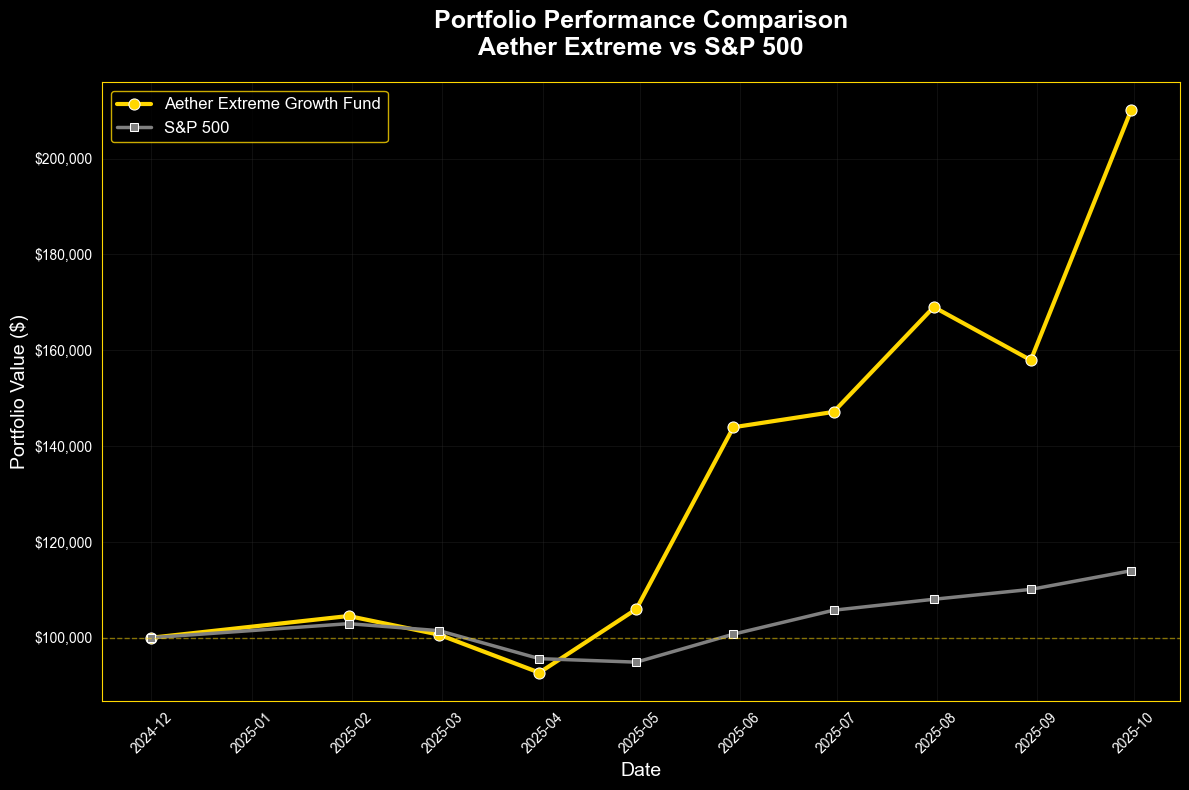
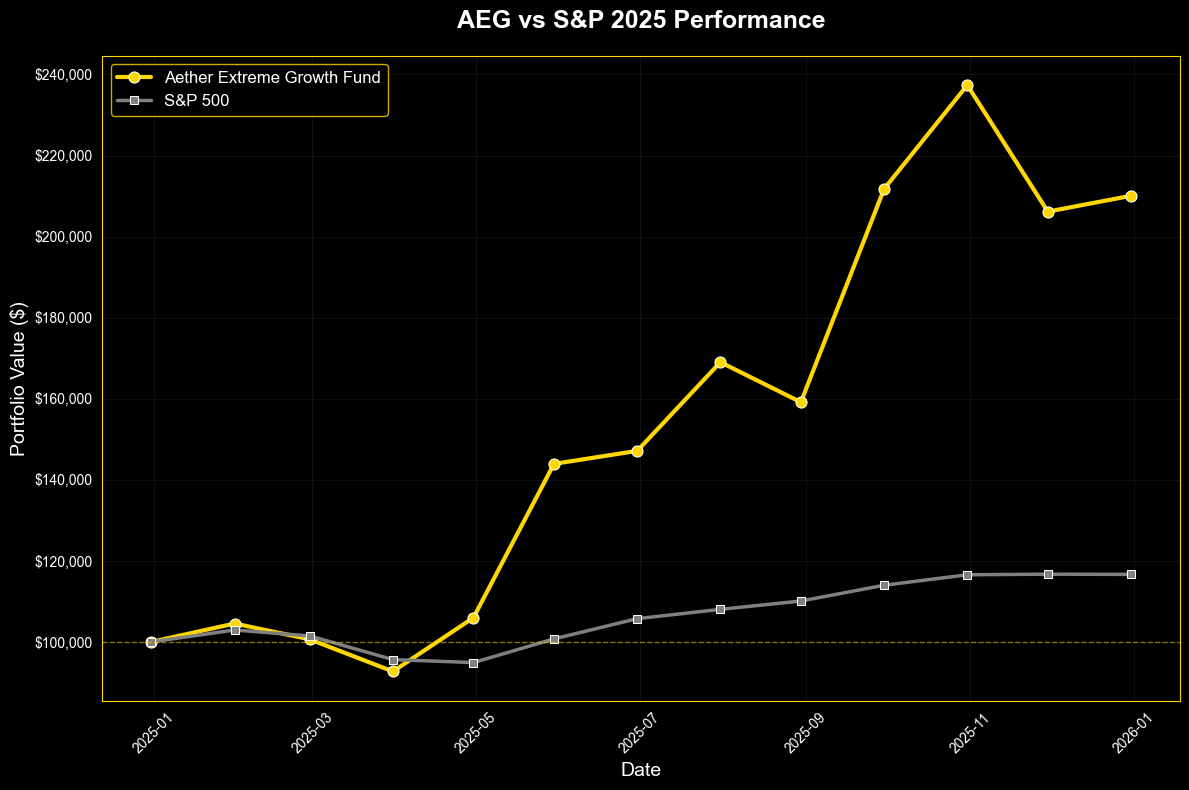
Add files via upload

diff --git a/style.css b/style.css
@@ -1,4 +1,3 @@
-
 body {
   margin: 0;
   font-family: 'Segoe UI', Tahoma, Geneva, Verdana, sans-serif;
@@ -117,7 +116,110 @@ footer {
 
 .scatter-img {
   width: 100%;
+  max-width: 450px;
+  height: auto;
+  border: 2px solid #ffd700;
+  border-radius: 8px;
+}
+.text-box {
+  background: rgba(0, 0, 0, 0.6); /* semi-transparent black */
+  border: 1px solid #bfa64b;      /* matte gold border */
+  border-radius: 8px;
+  padding: 1.5rem;
+  margin: 1rem auto;
   max-width: 700px;
+  box-shadow: 0 0 10px rgba(0, 0, 0, 0.5);
+}
+
+
+.navbar {
+  width: 100%;
+  background: rgba(0, 0, 0, 0.7);
+  border-bottom: 1px solid #bfa64b;
+  padding: 1rem 0;
+  text-align: center;
+  position: fixed;
+  top: 0;
+  left: 0;
+}
+
+.navbar a {
+  color: #ffd700;
+  text-decoration: none;
+  margin: 0 1.5rem;
+  font-weight: bold;
+  font-size: 1.1rem;
+}
+
+.navbar a:hover {
+  color: #fff;
+}
+
+body {
+  padding-top: 80px; /* to make room for navbar */
+}
+
+.fund-description {
+  margin-top: 1.5rem;
+  font-size: 1rem;
+  line-height: 1.6;
+  color: #bfa64b; /* matte gold tone */
+  max-width: 700px;
+  margin-left: auto;
+  margin-right: auto;
+}
+
+
+.coming-soon {
+  margin-top: 2rem;
+  text-align: center;
+}
+
+.coming-soon h2 {
+  font-size: 1.5rem;
+  color: #bfa64b; /* matte gold */
+  margin-bottom: 1rem;
+  text-transform: uppercase;
+  letter-spacing: 1px;
+}
+
+.coming-soon ul {
+  list-style: none;
+  padding: 0;
+}
+
+.coming-soon li {
+  font-size: 1.1rem;
+  color: #ccc;
+  margin: 0.5rem 0;
+}
+
+.morosaetherean-description {
+  margin-top: 1rem;
+  margin-bottom: 2rem;
+  font-size: 1.05rem;
+  line-height: 1.5;
+  color: #bfa64b; /* matte gold */
+  max-width: 700px;
+  margin-left: auto;
+  margin-right: auto;
+  font-style: italic;
+  white-space: pre-line; /* respects line breaks in the text */
+}
+
+
+.comparison-images {
+  display: flex;
+  justify-content: center;
+  flex-wrap: wrap;
+  gap: 1.5rem;
+  margin-top: 2rem;
+  margin-bottom: 2rem;
+}
+
+.scatter-img {
+  width: 100%;
+  max-width: 1000px;
   height: auto;
   border: 2px solid #ffd700;
   border-radius: 8px;

diff --git a/aether-extreme.html b/aether-extreme.html
@@ -3,28 +3,34 @@
 <head>
   <meta charset="UTF-8" />
   <meta name="viewport" content="width=device-width, initial-scale=1.0"/>
-  <title>Aether Extreme Growth - MorosAetherean</title>
+  <title>Aether Extreme Growth 2025 - MorosAetherean</title>
   <link rel="stylesheet" href="style.css" />
 </head>
 <body>
   <nav class="navbar">
     <a href="index.html">Home</a>
-    <a href="aether-extreme.html">Aether Extreme Growth</a>
+    <a href="aether-extreme.html">Aether Extreme Growth 2025</a>
+    <a href="outlook.html">Outlook</a>
   </nav>
 
 <p class="fund-description text-box">
-  The Aether Extreme Growth Fund is an investment marvel. If one wants to reach the Aether one must be willing to take substantial risk. This fund is not for the light of heart.
+  The Aether Extreme Growth Fund is an investment marvel. If one wants to reach the Aether one must be willing to take substantial risk. This fund is not for the faint of heart.
 </p>
 
   <div class="container">
-    <h1>Aether Extreme Growth</h1>
+    <h1>Aether Extreme Growth 2025</h1>
+    
+    <img src="2025 Performance vs S&P.png" alt="2025 Performance vs S&P 500" class="chart" />
+    
+    <img src="2025 Cash.png" alt="2025 Cash Position" class="chart" />
+
     <p class="text-box">
       Detailed scatter plots comparing Aether Extreme and the S&P 500.
     </p>
 
     <div class="comparison-images">
-      <img src="scatteraether.png" alt="Aether Extreme Scatter Plot" class="scatter-img" />
-      <img src="scatterspy.png" alt="S&P 500 Scatter Plot" class="scatter-img" />
+      <img src="2025 AEG Scatterplot.png" alt="Aether Extreme Scatter Plot" class="scatter-img" />
+      <img src="2025 S&P Scatterplot.png" alt="S&P 500 Scatter Plot" class="scatter-img" />
     </div>
   </div>
 

diff --git a/outlook.html b/outlook.html
@@ -1,0 +1,30 @@
+<!DOCTYPE html>
+<html lang="en">
+<head>
+  <meta charset="UTF-8" />
+  <meta name="viewport" content="width=device-width, initial-scale=1.0"/>
+  <title>Outlook - MorosAetherean</title>
+  <link rel="stylesheet" href="style.css" />
+</head>
+<body>
+  <nav class="navbar">
+    <a href="index.html">Home</a>
+    <a href="aether-extreme.html">Aether Extreme Growth 2025</a>
+    <a href="outlook.html">Outlook</a>
+  </nav>
+
+  <div class="container">
+    <h1>Weekly Outlook</h1>
+    
+    <p class="text-box">
+      Stay informed with our weekly market analysis and insights.
+    </p>
+
+    <img src="weekly-newsletter.png" alt="Weekly Newsletter" class="chart" />
+  </div>
+
+  <footer>
+    <p>&copy; 2025 MorosAetherean. All rights reserved.</p>
+  </footer>
+</body>
+</html>

diff --git a/index.html b/index.html
@@ -1,4 +1,3 @@
-
 <!DOCTYPE html>
 <html lang="en">
 <head>
@@ -10,7 +9,8 @@
 <body>
   <nav class="navbar">
   <a href="index.html">Home</a>
-  <a href="aether-extreme.html">Aether Extreme Growth</a>
+  <a href="aether-extreme.html">Aether Extreme Growth 2025</a>
+  <a href="outlook.html">Outlook</a>
 </nav>
 
 
